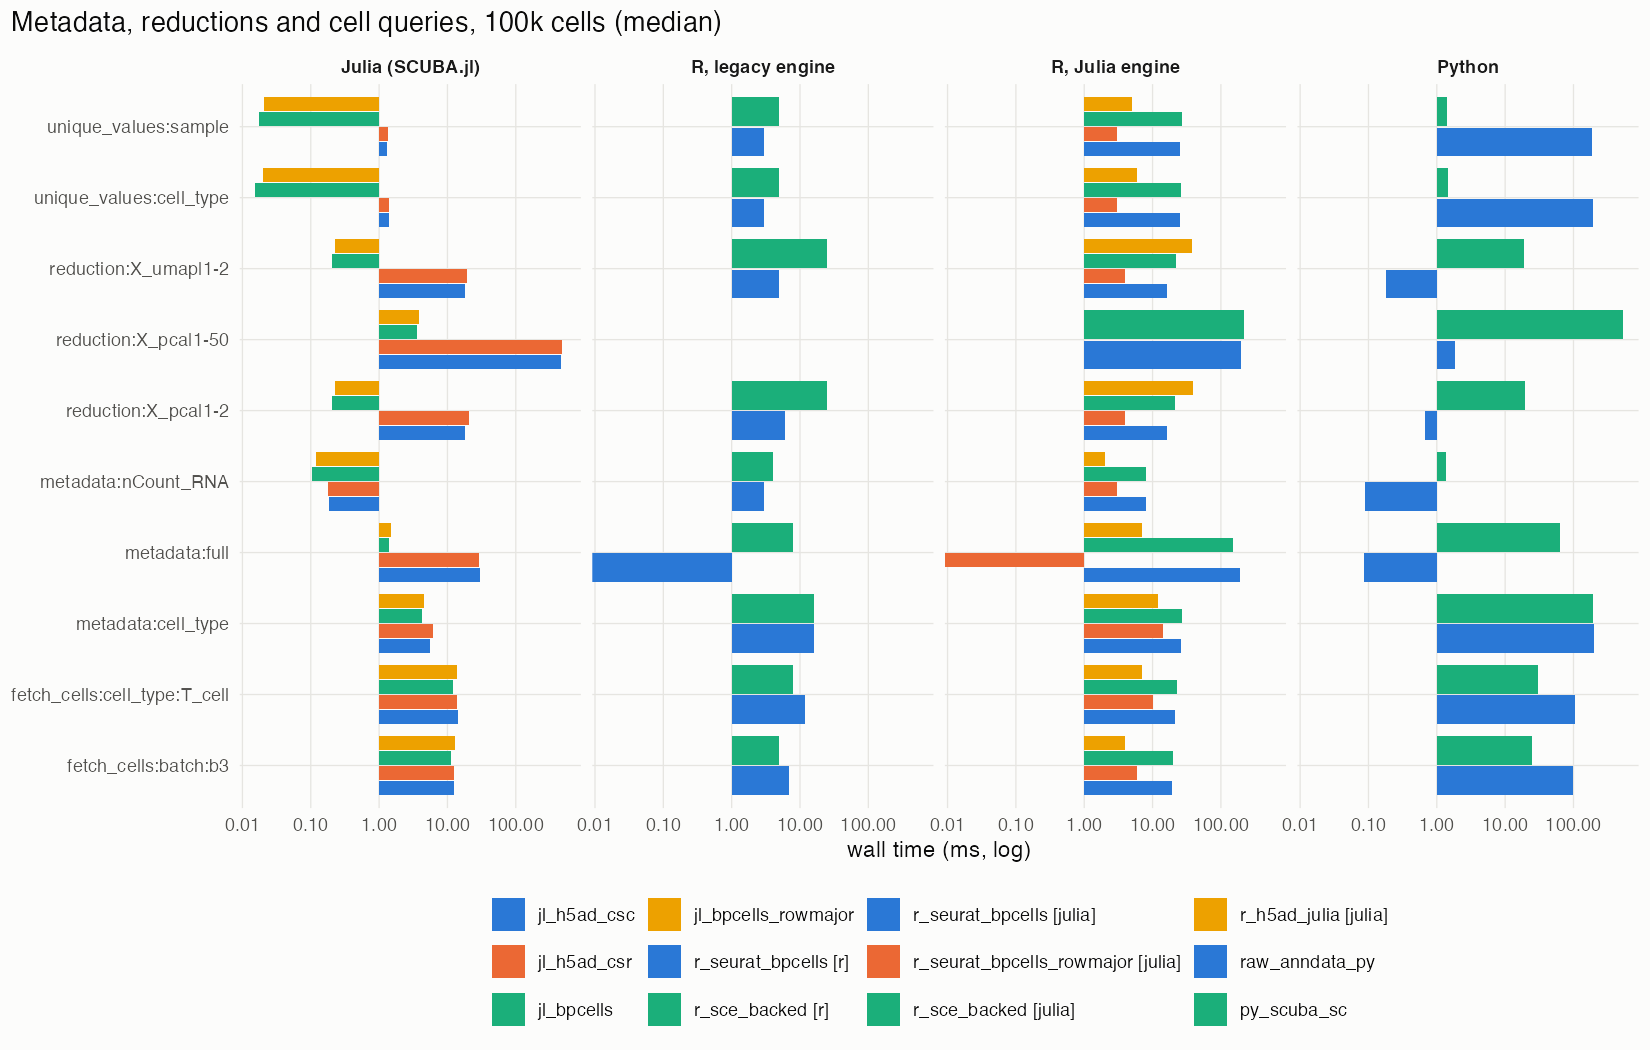
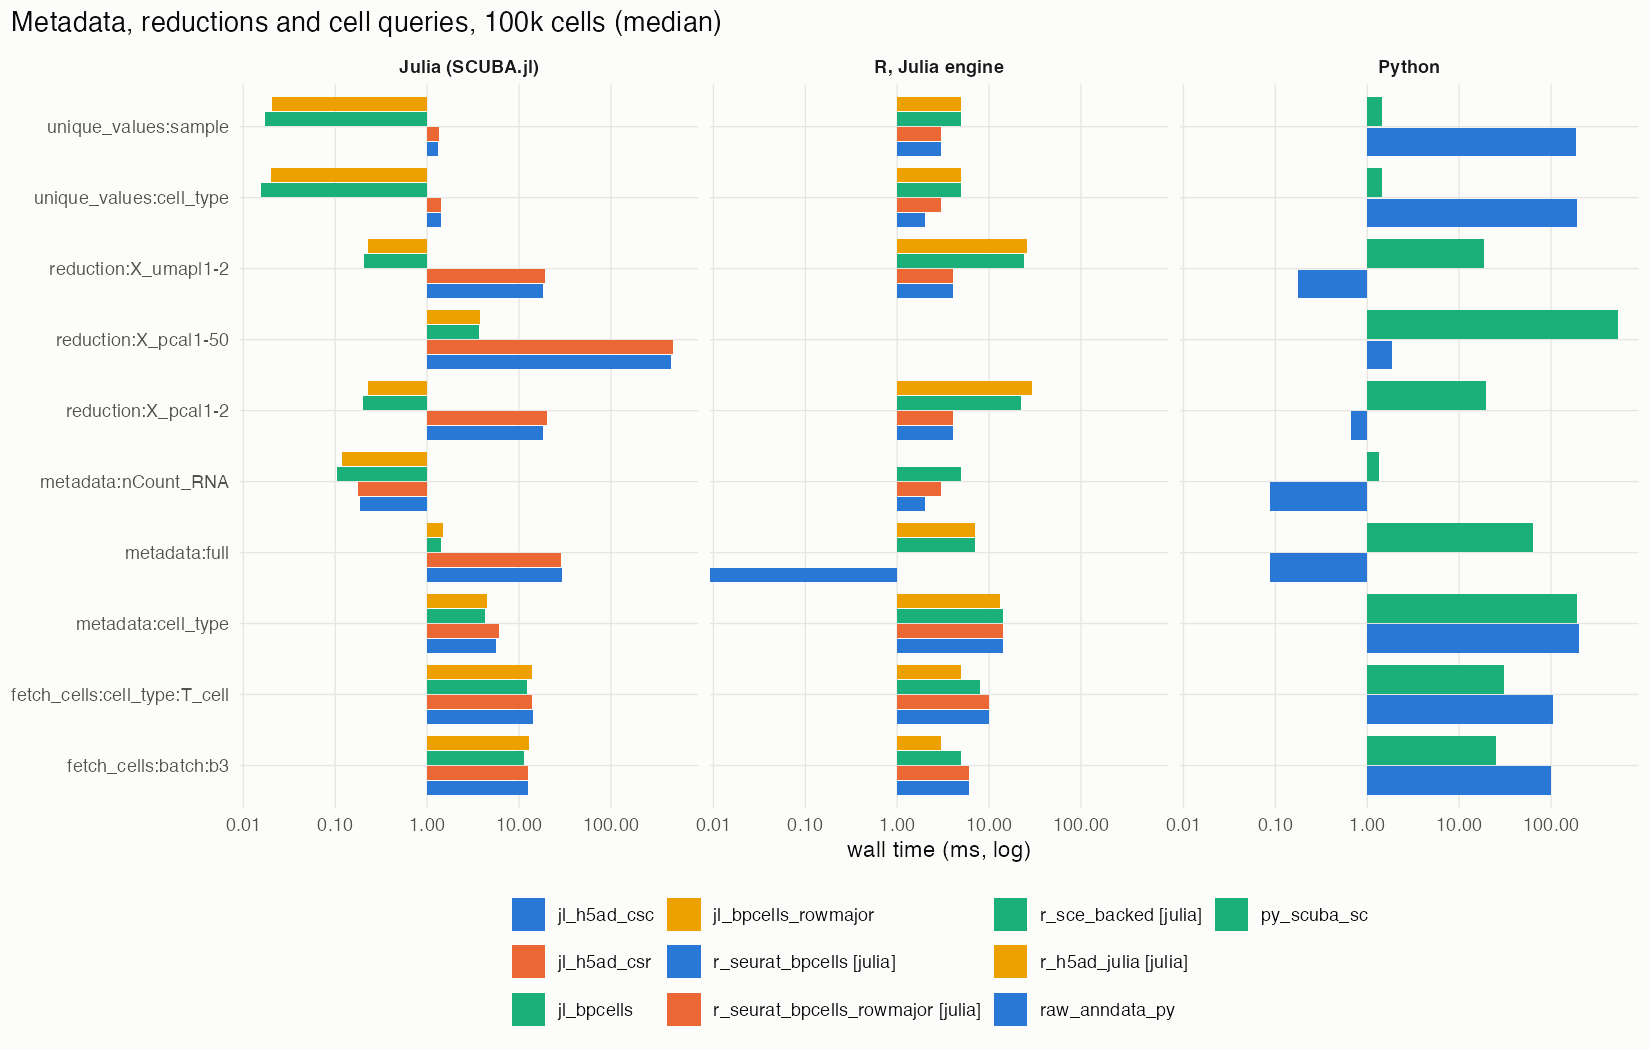
Bench report: R Julia-engine rows after the bridge changes (run fb2)

diff --git a/bench/report/summary.md b/bench/report/summary.md
@@ -1,6 +1,6 @@
 # SCUBA benchmark summary
 
-Generated 2026-10-22 01:24 MDT from `results.parquet` (845093 rows, 845015 ok).
+Generated 2026-10-22 08:17 MDT from `results.parquet` (841711 rows, 841633 ok).
 
 ## Interpretation
 
@@ -54,6 +54,13 @@ R engine and Julia engine) and raw library baselines on synthetic datasets of 10
   to scipy in 1.0 s versus 3.1 s for the dense pandas frame; `iter_chunks` over the same request
   (sparse, 256 MiB chunks) takes 10 s because every chunk re-reads the requested csc columns, so
   chunking is for bounding memory, not for speed, on this layout.
+- **R bridge overheads removed (2026-10-22, evening).** Cell names no longer cross the JuliaCall
+  bridge in either direction (R already holds them), and expression columns are written by Julia
+  straight into R double vectors instead of being built in Julia and copied. One gene over 1M
+  cells from R: file-backed h5ad 242 ms → 35 ms, row-major Seurat 110 ms → 18 ms. 1000 genes:
+  h5ad 4.1 s → 0.9 s warm (first call after start-up ~6 s while 8 GB of fresh R memory is
+  touched), Seurat 4.7 s → 2.0 s. Process peak for the 1000-gene fetch: Seurat 18.6 GB → 12.0 GB,
+  h5ad 10.6 GB, against the 8 GB result itself. `options(SCUBA.julia_eltype)` is therefore a no-op.
 - **Memory.** A 1000-gene × 1M-cell dense result is 8 GB; peak RSS reached 25 GB in Julia and 60 GB
   in R in these runs. SCUBA.jl now fills result columns directly for results above 256 MiB (peak
   ~9 GB for the same query), offers `eltype = Float32` and a sparse `fetch_matrix`, and the size
@@ -114,14 +121,12 @@ on its internal SSD.
 | raw_anndata_py | 38.2 ms (IQR 37.2 ms–39.3 ms) | 40.6 ms (IQR 37.9 ms–41.2 ms) | 51.1 ms (IQR 47.4 ms–51.6 ms) | 113.5 ms (IQR 110.6 ms–115.5 ms) |
 | raw_h5py_py | 0.1 ms (IQR 0.1 ms–0.2 ms) | 1.2 ms (IQR 1.2 ms–1.2 ms) | 13.6 ms (IQR 12.8 ms–13.7 ms) | 134.5 ms (IQR 132.4 ms–135.3 ms) |
 | py_scuba_sc | 1.3 ms (IQR 1.2 ms–1.3 ms) | 4.9 ms (IQR 4.4 ms–13.2 ms) | 86.4 ms (IQR 41.5 ms–96.5 ms) | 473.3 ms (IQR 447.0 ms–496.6 ms) |
-| r_seurat_bpcells [r] | 523.0 ms (IQR 519.0 ms–529.5 ms) | 595.0 ms (IQR 589.0 ms–616.0 ms) | 1.9 s (IQR 1.6 s–1.9 s) | 7.4 s (IQR 7.3 s–7.6 s) |
-| r_sce_backed [r] | 50.0 ms (IQR 50.0 ms–54.0 ms) | 68.0 ms (IQR 67.0 ms–68.0 ms) | 264.0 ms (IQR 259.0 ms–273.0 ms) | 3.0 s (IQR 2.9 s–3.3 s) |
 | raw_bpcells_r [r] | 328.0 ms (IQR 317.5 ms–330.5 ms) | 328.0 ms (IQR 324.5 ms–333.0 ms) | 414.0 ms (IQR 409.5 ms–425.5 ms) | 781.0 ms (IQR 771.0 ms–1.1 s) |
 | raw_bpcells_r_rowmajor [r] | 10.0 ms (IQR 10.0 ms–10.0 ms) | 13.0 ms (IQR 13.0 ms–14.0 ms) | 55.0 ms (IQR 52.0 ms–58.0 ms) | 726.0 ms (IQR 439.0 ms–740.5 ms) |
-| r_seurat_bpcells [julia] | 316.0 ms (IQR 313.5 ms–319.0 ms) | 322.0 ms (IQR 319.0 ms–324.5 ms) | 432.0 ms (IQR 428.0 ms–438.5 ms) | 829.0 ms (IQR 773.0 ms–1.1 s) |
-| r_seurat_bpcells_rowmajor [julia] | 6.0 ms (IQR 6.0 ms–6.0 ms) | 10.0 ms (IQR 10.0 ms–10.0 ms) | 87.0 ms (IQR 51.0 ms–96.5 ms) | 462.0 ms (IQR 385.5 ms–809.5 ms) |
-| r_sce_backed [julia] | 19.0 ms (IQR 18.5 ms–25.0 ms) | 58.0 ms (IQR 57.0 ms–63.5 ms) | 485.0 ms (IQR 459.0 ms–501.0 ms) | 4.4 s (IQR 4.4 s–4.5 s) |
-| r_h5ad_julia [julia] | 13.0 ms (IQR 12.5 ms–14.5 ms) | 18.0 ms (IQR 17.5 ms–22.0 ms) | 107.0 ms (IQR 65.5 ms–109.0 ms) | 784.0 ms (IQR 621.5 ms–1.0 s) |
+| r_seurat_bpcells [julia] | 304.0 ms (IQR 293.5 ms–313.5 ms) | 309.0 ms (IQR 303.0 ms–314.5 ms) | 373.0 ms (IQR 367.5 ms–377.5 ms) | 608.0 ms (IQR 593.0 ms–884.0 ms) |
+| r_seurat_bpcells_rowmajor [julia] | 2.0 ms (IQR 2.0 ms–2.0 ms) | 4.0 ms (IQR 3.5 ms–4.0 ms) | 26.0 ms (IQR 25.0 ms–26.0 ms) | 248.0 ms (IQR 241.5 ms–382.0 ms) |
+| r_sce_backed [julia] | 15.0 ms (IQR 15.0 ms–20.5 ms) | 25.0 ms (IQR 22.5 ms–26.5 ms) | 117.0 ms (IQR 114.0 ms–118.0 ms) | 1.3 s (IQR 1.0 s–1.4 s) |
+| r_h5ad_julia [julia] | 2.0 ms (IQR 2.0 ms–3.0 ms) | 5.0 ms (IQR 5.0 ms–5.0 ms) | 36.0 ms (IQR 35.5 ms–39.5 ms) | 340.0 ms (IQR 318.0 ms–605.5 ms) |
 
 ## 100k cells: metadata, reductions, cells (median)
 
@@ -133,12 +138,10 @@ on its internal SSD.
 | jl_bpcells_rowmajor | 12.8 ms | 13.8 ms | 4.5 ms | 1.5 ms | 0.1 ms | 0.2 ms | 3.8 ms | 0.2 ms | 0.0 ms | 0.0 ms |
 | raw_anndata_py | 98.6 ms | 103.8 ms | 200.5 ms | 0.1 ms | 0.1 ms | 0.7 ms | 1.8 ms | 0.2 ms | 192.1 ms | 185.0 ms |
 | py_scuba_sc | 25.0 ms | 30.5 ms | 193.8 ms | 62.8 ms | 1.4 ms | 19.5 ms | 531.8 ms | 18.6 ms | 1.5 ms | 1.4 ms |
-| r_seurat_bpcells [r] | 7.0 ms | 12.0 ms | 16.0 ms | 0.0 ms | 3.0 ms | 6.0 ms |  | 5.0 ms | 3.0 ms | 3.0 ms |
-| r_sce_backed [r] | 5.0 ms | 8.0 ms | 16.0 ms | 8.0 ms | 4.0 ms | 25.0 ms |  | 25.0 ms | 5.0 ms | 5.0 ms |
-| r_seurat_bpcells [julia] | 19.0 ms | 21.0 ms | 26.0 ms | 188.0 ms | 8.0 ms | 16.0 ms | 198.0 ms | 16.0 ms | 25.0 ms | 25.0 ms |
-| r_seurat_bpcells_rowmajor [julia] | 6.0 ms | 10.0 ms | 14.0 ms | 0.0 ms | 3.0 ms | 4.0 ms |  | 4.0 ms | 3.0 ms | 3.0 ms |
-| r_sce_backed [julia] | 20.0 ms | 23.0 ms | 27.0 ms | 149.0 ms | 8.0 ms | 21.0 ms | 215.0 ms | 22.0 ms | 26.0 ms | 27.0 ms |
-| r_h5ad_julia [julia] | 4.0 ms | 7.0 ms | 12.0 ms | 7.0 ms | 2.0 ms | 39.0 ms |  | 38.0 ms | 6.0 ms | 5.0 ms |
+| r_seurat_bpcells [julia] | 6.0 ms | 10.0 ms | 14.0 ms | 0.0 ms | 2.0 ms | 4.0 ms |  | 4.0 ms | 2.0 ms | 3.0 ms |
+| r_seurat_bpcells_rowmajor [julia] | 6.0 ms | 10.0 ms | 14.0 ms | 1.0 ms | 3.0 ms | 4.0 ms |  | 4.0 ms | 3.0 ms | 3.0 ms |
+| r_sce_backed [julia] | 5.0 ms | 8.0 ms | 14.0 ms | 7.0 ms | 5.0 ms | 22.0 ms |  | 24.0 ms | 5.0 ms | 5.0 ms |
+| r_h5ad_julia [julia] | 3.0 ms | 5.0 ms | 13.0 ms | 7.0 ms | 1.0 ms | 29.0 ms |  | 26.0 ms | 5.0 ms | 5.0 ms |
 
 ## 1M cells: feature fetch over all cells, warm (median, IQR)
 
@@ -151,15 +154,12 @@ on its internal SSD.
 | raw_anndata_py | 497.4 ms (IQR 479.4 ms–500.7 ms) | 464.3 ms (IQR 459.3 ms–479.7 ms) | 504.2 ms (IQR 502.0 ms–519.1 ms) | 809.3 ms (IQR 807.3 ms–815.9 ms) |
 | raw_h5py_py | 0.1 ms (IQR 0.1 ms–0.1 ms) | 0.9 ms (IQR 0.8 ms–1.3 ms) | 13.1 ms (IQR 10.4 ms–14.6 ms) | 127.5 ms (IQR 126.8 ms–127.8 ms) |
 | py_scuba_sc | 8.1 ms (IQR 7.0 ms–18.3 ms) | 93.3 ms (IQR 69.2 ms–102.4 ms) | 412.4 ms (IQR 317.5 ms–457.9 ms) | 3.1 s (IQR 3.0 s–3.3 s) |
-| r_seurat_bpcells [r] | 5.5 s (IQR 5.5 s–5.6 s) | 6.5 s (IQR 6.2 s–6.6 s) | 14.2 s (IQR 14.0 s–14.3 s) | 70.6 s (IQR 69.9 s–73.0 s) |
-| r_seurat_bpcells_rowmajor [r] | 2.3 s (IQR 2.3 s–2.4 s) | 3.4 s (IQR 3.3 s–3.4 s) | 10.7 s (IQR 10.6 s–10.9 s) | 67.5 s (IQR 67.1 s–67.9 s) |
-| r_sce_backed [r] | 254.0 ms (IQR 251.0 ms–256.0 ms) | 438.0 ms (IQR 431.0 ms–450.0 ms) | 3.9 s (IQR 3.8 s–4.1 s) | 39.6 s (IQR 39.4 s–40.1 s) |
 | raw_bpcells_r [r] | 3.1 s (IQR 3.0 s–3.1 s) | 3.1 s (IQR 3.1 s–3.2 s) | 4.0 s (IQR 4.0 s–4.0 s) | 8.2 s (IQR 7.8 s–8.2 s) |
 | raw_bpcells_r_rowmajor [r] | 85.0 ms (IQR 82.0 ms–87.5 ms) | 121.0 ms (IQR 115.5 ms–122.0 ms) | 479.0 ms (IQR 476.5 ms–490.0 ms) | 4.7 s (IQR 4.7 s–4.8 s) |
-| r_seurat_bpcells [julia] | 3.3 s (IQR 3.2 s–3.3 s) | 3.4 s (IQR 3.4 s–3.4 s) | 4.1 s (IQR 4.1 s–4.3 s) | 8.0 s (IQR 7.8 s–8.1 s) |
-| r_seurat_bpcells_rowmajor [julia] | 110.0 ms (IQR 107.0 ms–128.5 ms) | 202.0 ms (IQR 146.5 ms–212.0 ms) | 535.0 ms (IQR 436.0 ms–611.5 ms) | 4.7 s (IQR 4.6 s–4.9 s) |
-| r_sce_backed [julia] | 181.0 ms (IQR 178.0 ms–187.0 ms) | 637.0 ms (IQR 628.5 ms–643.0 ms) | 4.5 s (IQR 4.1 s–4.6 s) | 40.6 s (IQR 40.2 s–40.9 s) |
-| r_h5ad_julia [julia] | 245.0 ms (IQR 209.0 ms–256.5 ms) | 306.0 ms (IQR 297.5 ms–318.0 ms) | 667.0 ms (IQR 634.0 ms–712.5 ms) | 4.1 s (IQR 4.0 s–4.5 s) |
+| r_seurat_bpcells [julia] | 3.1 s (IQR 3.0 s–3.1 s) | 3.1 s (IQR 3.1 s–3.2 s) | 3.7 s (IQR 3.7 s–3.8 s) | 6.6 s (IQR 6.3 s–6.9 s) |
+| r_seurat_bpcells_rowmajor [julia] | 16.0 ms (IQR 15.0 ms–16.0 ms) | 37.0 ms (IQR 35.5 ms–39.0 ms) | 247.0 ms (IQR 242.5 ms–256.5 ms) | 2.7 s (IQR 2.3 s–2.8 s) |
+| r_sce_backed [julia] | 58.0 ms (IQR 57.0 ms–60.0 ms) | 141.0 ms (IQR 130.0 ms–151.5 ms) | 1.2 s (IQR 1.2 s–1.2 s) | 10.6 s (IQR 10.5 s–11.8 s) |
+| r_h5ad_julia [julia] | 26.0 ms (IQR 25.0 ms–27.5 ms) | 47.0 ms (IQR 44.0 ms–75.5 ms) | 304.0 ms (IQR 250.5 ms–639.0 ms) | 2.9 s (IQR 2.7 s–3.2 s) |
 
 ## 1M cells: metadata, reductions, cells (median)
 
@@ -171,13 +171,10 @@ on its internal SSD.
 | jl_bpcells_rowmajor | 132.8 ms | 142.0 ms | 44.8 ms | 15.6 ms | 1.1 ms | 2.3 ms | 35.2 ms | 2.3 ms | 0.1 ms | 0.1 ms |
 | raw_anndata_py | 55.3 ms | 85.2 ms | 130.3 ms | 0.3 ms | 0.3 ms | 12.4 ms | 44.9 ms | 0.6 ms | 108.9 ms | 78.1 ms |
 | py_scuba_sc | 214.0 ms | 301.9 ms | 142.9 ms | 732.8 ms | 6.6 ms | 281.8 ms | 5.0 s | 267.9 ms | 13.6 ms | 12.9 ms |
-| r_seurat_bpcells [r] | 85.0 ms | 137.0 ms | 144.0 ms | 2.0 ms | 32.0 ms | 60.0 ms |  | 62.0 ms | 34.0 ms | 34.0 ms |
-| r_seurat_bpcells_rowmajor [r] | 88.0 ms | 133.0 ms | 140.0 ms | 2.0 ms | 28.0 ms | 56.0 ms |  | 53.0 ms | 33.0 ms | 35.0 ms |
-| r_sce_backed [r] | 68.0 ms | 99.0 ms | 140.0 ms | 44.0 ms | 30.0 ms | 123.0 ms |  | 133.0 ms | 33.0 ms | 34.0 ms |
-| r_seurat_bpcells [julia] | 236.0 ms | 291.0 ms | 340.0 ms | 1.8 s | 133.0 ms | 243.0 ms | 1.8 s | 232.0 ms | 401.0 ms | 429.0 ms |
-| r_seurat_bpcells_rowmajor [julia] | 233.0 ms | 279.0 ms | 336.0 ms | 1.7 s | 135.0 ms | 252.0 ms | 1.7 s | 301.0 ms | 401.0 ms | 415.0 ms |
-| r_sce_backed [julia] | 230.0 ms | 291.0 ms | 337.0 ms | 1.8 s | 139.0 ms | 259.0 ms | 1.9 s | 257.0 ms | 412.0 ms | 429.0 ms |
-| r_h5ad_julia [julia] | 57.0 ms | 87.0 ms | 136.0 ms | 81.0 ms | 28.0 ms | 495.0 ms |  | 455.0 ms | 73.0 ms | 72.0 ms |
+| r_seurat_bpcells [julia] | 93.0 ms | 146.0 ms | 144.0 ms | 2.0 ms | 33.0 ms | 54.0 ms |  | 59.0 ms | 37.0 ms | 38.0 ms |
+| r_seurat_bpcells_rowmajor [julia] | 90.0 ms | 138.0 ms | 134.0 ms | 2.0 ms | 28.0 ms | 54.0 ms |  | 57.0 ms | 34.0 ms | 34.0 ms |
+| r_sce_backed [julia] | 74.0 ms | 114.0 ms | 148.0 ms | 49.0 ms | 39.0 ms | 142.0 ms |  | 143.0 ms | 39.0 ms | 39.0 ms |
+| r_h5ad_julia [julia] | 55.0 ms | 84.0 ms | 133.0 ms | 77.0 ms | 26.0 ms | 391.0 ms |  | 386.0 ms | 66.0 ms | 65.0 ms |
 
 ## Startup, open and first-call latency (median)
 
@@ -195,32 +192,27 @@ on its internal SSD.
 | jl_bpcells_rowmajor | 100k | 29.2 ms | 2.0 s | 2.0 s |
 | jl_bpcells_rowmajor | 10k | 29.1 ms | 1.5 s | 1.2 s |
 | jl_bpcells_rowmajor | 1M | 29.0 ms | 7.8 s | 1.2 s |
-| r_seurat_bpcells [r] | 100k | 280.0 ms | 712.0 ms | 4.8 s |
 | r_seurat_bpcells [r] | 10k | 29.0 ms | 140.0 ms | 5.6 s |
-| r_seurat_bpcells [r] | 1M | 2.6 s | 5.3 s | 5.7 s |
 | r_seurat_bpcells_rowmajor [r] | 10k | 5.0 ms | 152.0 ms | 4.8 s |
-| r_seurat_bpcells_rowmajor [r] | 1M | 199.0 ms | 5.3 s | 4.8 s |
-| r_sce_backed [r] | 100k | 35.0 ms | 215.0 ms |  |
 | r_sce_backed [r] | 10k | 28.0 ms | 32.0 ms |  |
-| r_sce_backed [r] | 1M | 134.0 ms | 2.3 s |  |
 | raw_bpcells_r [r] | 100k | 327.0 ms | 24.0 ms |  |
 | raw_bpcells_r [r] | 10k | 37.0 ms | 9.0 ms |  |
 | raw_bpcells_r [r] | 1M | 3.1 s | 213.0 ms |  |
 | raw_bpcells_r_rowmajor [r] | 100k | 12.0 ms | 24.0 ms |  |
 | raw_bpcells_r_rowmajor [r] | 10k | 4.0 ms | 11.0 ms |  |
 | raw_bpcells_r_rowmajor [r] | 1M | 85.0 ms | 197.0 ms |  |
-| r_seurat_bpcells [julia] | 100k | 314.5 ms | 748.0 ms | 6.7 s |
+| r_seurat_bpcells [julia] | 100k | 7.0 ms | 288.0 ms |  |
 | r_seurat_bpcells [julia] | 10k | 91.0 ms | 149.0 ms | 4.6 s |
-| r_seurat_bpcells [julia] | 1M | 1.4 s | 5.1 s | 4.7 s |
-| r_seurat_bpcells_rowmajor [julia] | 100k | 10.0 ms | 738.0 ms | 4.2 s |
+| r_seurat_bpcells [julia] | 1M | 104.0 ms | 3.2 s |  |
+| r_seurat_bpcells_rowmajor [julia] | 100k | 10.0 ms | 396.0 ms |  |
 | r_seurat_bpcells_rowmajor [julia] | 10k | 86.0 ms | 162.0 ms | 4.5 s |
-| r_seurat_bpcells_rowmajor [julia] | 1M | 466.0 ms | 5.1 s | 4.6 s |
-| r_sce_backed [julia] | 100k | 117.0 ms | 214.0 ms |  |
+| r_seurat_bpcells_rowmajor [julia] | 1M | 59.0 ms | 3.2 s |  |
+| r_sce_backed [julia] | 100k | 21.0 ms | 216.0 ms |  |
 | r_sce_backed [julia] | 10k | 47.0 ms | 32.0 ms |  |
-| r_sce_backed [julia] | 1M | 462.0 ms | 2.4 s |  |
-| r_h5ad_julia [julia] | 100k | 14.0 ms | 387.0 ms | 4.8 s |
+| r_sce_backed [julia] | 1M | 124.0 ms | 2.5 s |  |
+| r_h5ad_julia [julia] | 100k | 13.0 ms | 403.0 ms | 4.7 s |
 | r_h5ad_julia [julia] | 10k | 3.0 ms | 201.0 ms | 4.9 s |
-| r_h5ad_julia [julia] | 1M | 266.0 ms | 3.9 s | 4.9 s |
+| r_h5ad_julia [julia] | 1M | 83.0 ms | 3.7 s | 4.7 s |
 | raw_anndata_py | 100k | 51.1 ms | 780.0 ms | 1.3 s |
 | raw_anndata_py | 10k | 9.4 ms | 545.5 ms | 1.3 s |
 | raw_anndata_py | 1M | 96.9 ms | 3.2 s | 1.6 s |
@@ -242,15 +234,15 @@ on its internal SSD.
 | r_h5ad_julia | julia | 100k | skipped | legacy fetch_reduction supports exactly two dims |  1 |
 | r_h5ad_julia | julia | 10k | skipped | legacy fetch_reduction supports exactly two dims |  1 |
 | r_h5ad_julia | julia | 1M | skipped | legacy fetch_reduction supports exactly two dims |  1 |
-| r_sce_backed | r | 100k | skipped | legacy fetch_reduction supports exactly two dims |  1 |
+| r_sce_backed | julia | 100k | skipped | legacy fetch_reduction supports exactly two dims |  1 |
+| r_sce_backed | julia | 1M | skipped | legacy fetch_reduction supports exactly two dims |  1 |
 | r_sce_backed | r | 10k | skipped | legacy fetch_reduction supports exactly two dims |  1 |
-| r_sce_backed | r | 1M | skipped | legacy fetch_reduction supports exactly two dims |  1 |
-| r_seurat_bpcells | r | 100k | skipped | legacy fetch_reduction supports exactly two dims |  1 |
+| r_seurat_bpcells | julia | 100k | skipped | legacy fetch_reduction supports exactly two dims |  1 |
+| r_seurat_bpcells | julia | 1M | skipped | legacy fetch_reduction supports exactly two dims |  1 |
 | r_seurat_bpcells | r | 10k | skipped | legacy fetch_reduction supports exactly two dims |  1 |
-| r_seurat_bpcells | r | 1M | skipped | legacy fetch_reduction supports exactly two dims |  1 |
 | r_seurat_bpcells_rowmajor | julia | 100k | skipped | legacy fetch_reduction supports exactly two dims |  1 |
+| r_seurat_bpcells_rowmajor | julia | 1M | skipped | legacy fetch_reduction supports exactly two dims |  1 |
 | r_seurat_bpcells_rowmajor | r | 10k | skipped | legacy fetch_reduction supports exactly two dims |  1 |
-| r_seurat_bpcells_rowmajor | r | 1M | skipped | legacy fetch_reduction supports exactly two dims |  1 |
 
 ## Checksum mismatches
 

diff --git a/bench/report/interpretation.md b/bench/report/interpretation.md
@@ -53,10 +53,11 @@ R engine and Julia engine) and raw library baselines on synthetic datasets of 10
 - **R bridge overheads removed (2026-10-22, evening).** Cell names no longer cross the JuliaCall
   bridge in either direction (R already holds them), and expression columns are written by Julia
   straight into R double vectors instead of being built in Julia and copied. One gene over 1M
-  cells from R: file-backed h5ad 242 ms → 35 ms, row-major Seurat 110 ms → 18 ms. 1000 genes:
-  h5ad 4.1 s → 0.9 s warm (first call after start-up ~6 s while 8 GB of fresh R memory is
-  touched), Seurat 4.7 s → 2.0 s. Process peak for the 1000-gene fetch: Seurat 18.6 GB → 12.0 GB,
-  h5ad 10.6 GB, against the 8 GB result itself. `options(SCUBA.julia_eltype)` is therefore a no-op.
+  cells from R: file-backed h5ad 245 ms → 26 ms, row-major Seurat 110 ms → 16 ms (bench medians).
+  1000 genes: h5ad 4.1 s → 2.9 s and Seurat 4.7 s → 2.7 s in the harness, where every repetition
+  allocates and touches 8 GB of fresh R memory; a warm R session that reuses that memory does the
+  h5ad fetch in 0.9 s. Process peak for the 1000-gene fetch: Seurat 18.6 GB → 12.0 GB, h5ad
+  10.6 GB, against the 8 GB result itself. `options(SCUBA.julia_eltype)` is therefore a no-op.
 - **Memory.** A 1000-gene × 1M-cell dense result is 8 GB; peak RSS reached 25 GB in Julia and 60 GB
   in R in these runs. SCUBA.jl now fills result columns directly for results above 256 MiB (peak
   ~9 GB for the same query), offers `eltype = Float32` and a sparse `fetch_matrix`, and the size
